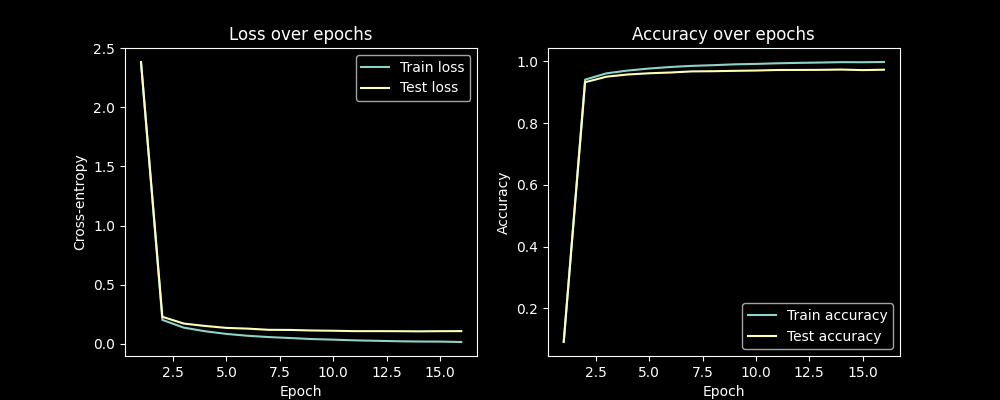
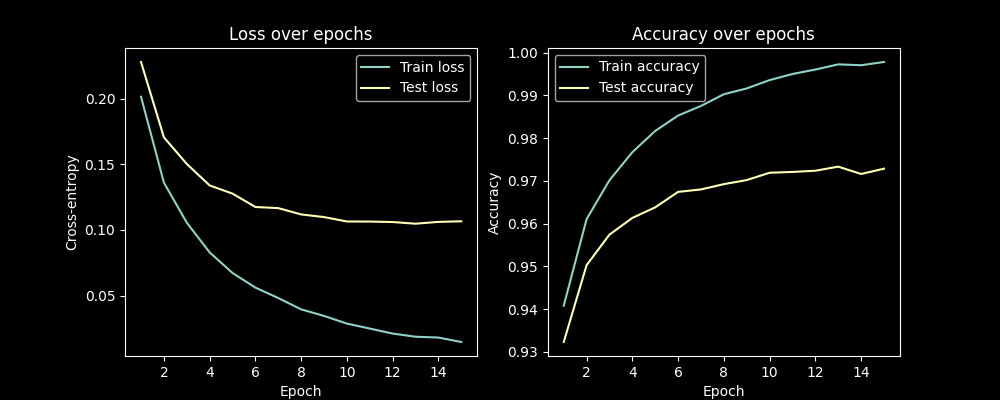
Fixing small plot issue

diff --git a/Testing.py b/Testing.py
@@ -124,8 +124,8 @@ for epoch in range(epochs):
 plt.style.use('dark_background')
 plt.figure(figsize=(10, 4))
 plt.subplot(1, 2, 1)
-plt.plot(range(1, epochs + 2), train_losses, label="Train loss")
-plt.plot(range(1, epochs + 2), test_losses, label="Test loss")
+plt.plot(range(1, epochs + 1), train_losses, label="Train loss")
+plt.plot(range(1, epochs + 1), test_losses, label="Test loss")
 plt.xlabel("Epoch")
 plt.ylabel("Cross-entropy")
 plt.title("Loss over epochs")
@@ -134,8 +134,8 @@ plt.legend()
 # Plotting accuracy
 plt.style.use('dark_background')
 plt.subplot(1, 2, 2)
-plt.plot(range(1, epochs + 2), train_accuracies, label="Train accuracy")
-plt.plot(range(1, epochs + 2), test_accuracies, label="Test accuracy")
+plt.plot(range(1, epochs + 1), train_accuracies, label="Train accuracy")
+plt.plot(range(1, epochs + 1), test_accuracies, label="Test accuracy")
 plt.xlabel("Epoch")
 plt.ylabel("Accuracy")
 plt.title("Accuracy over epochs")
